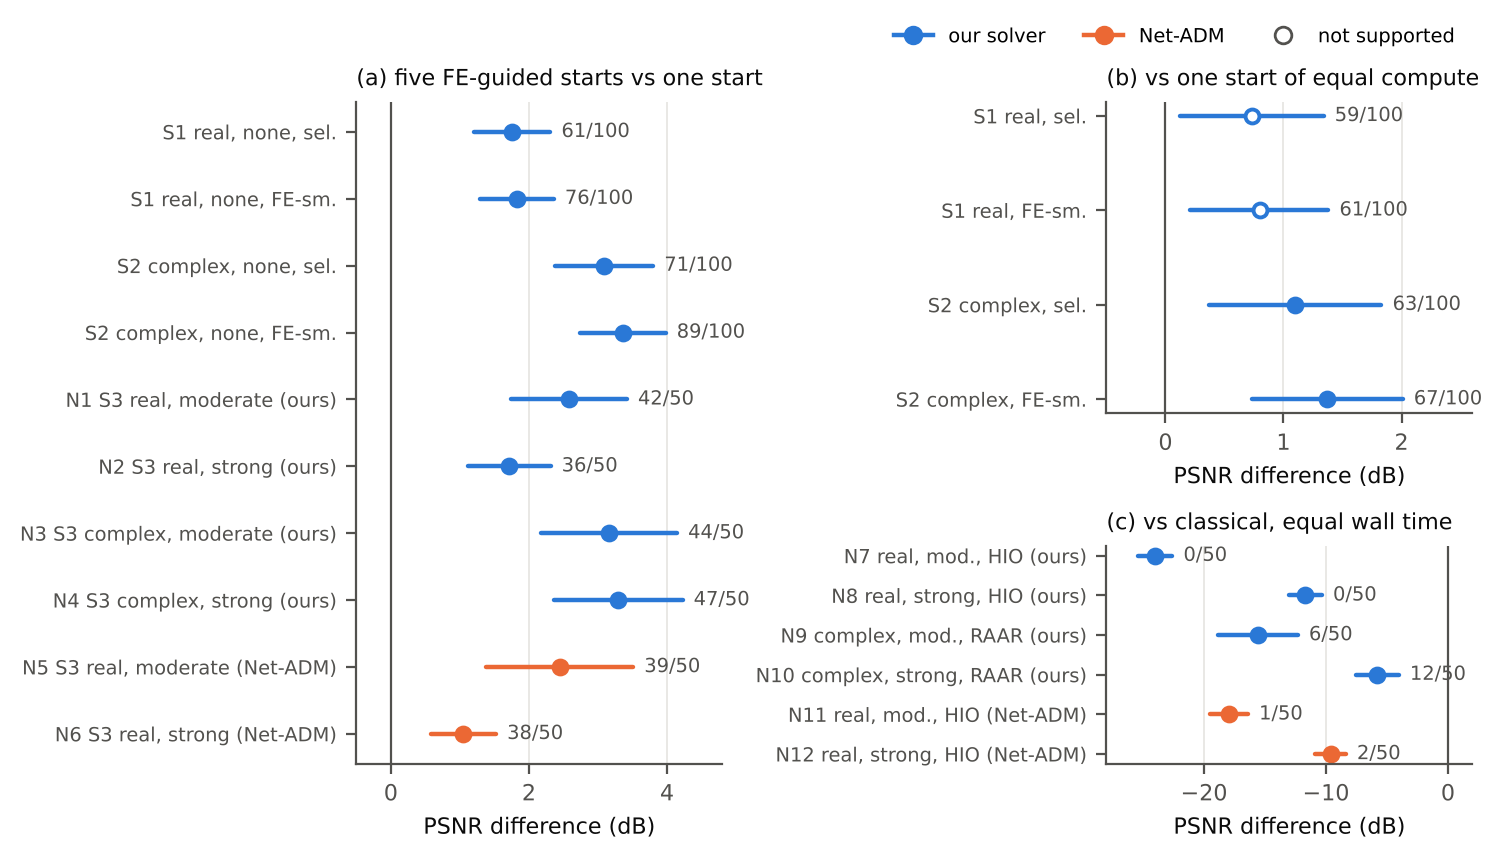
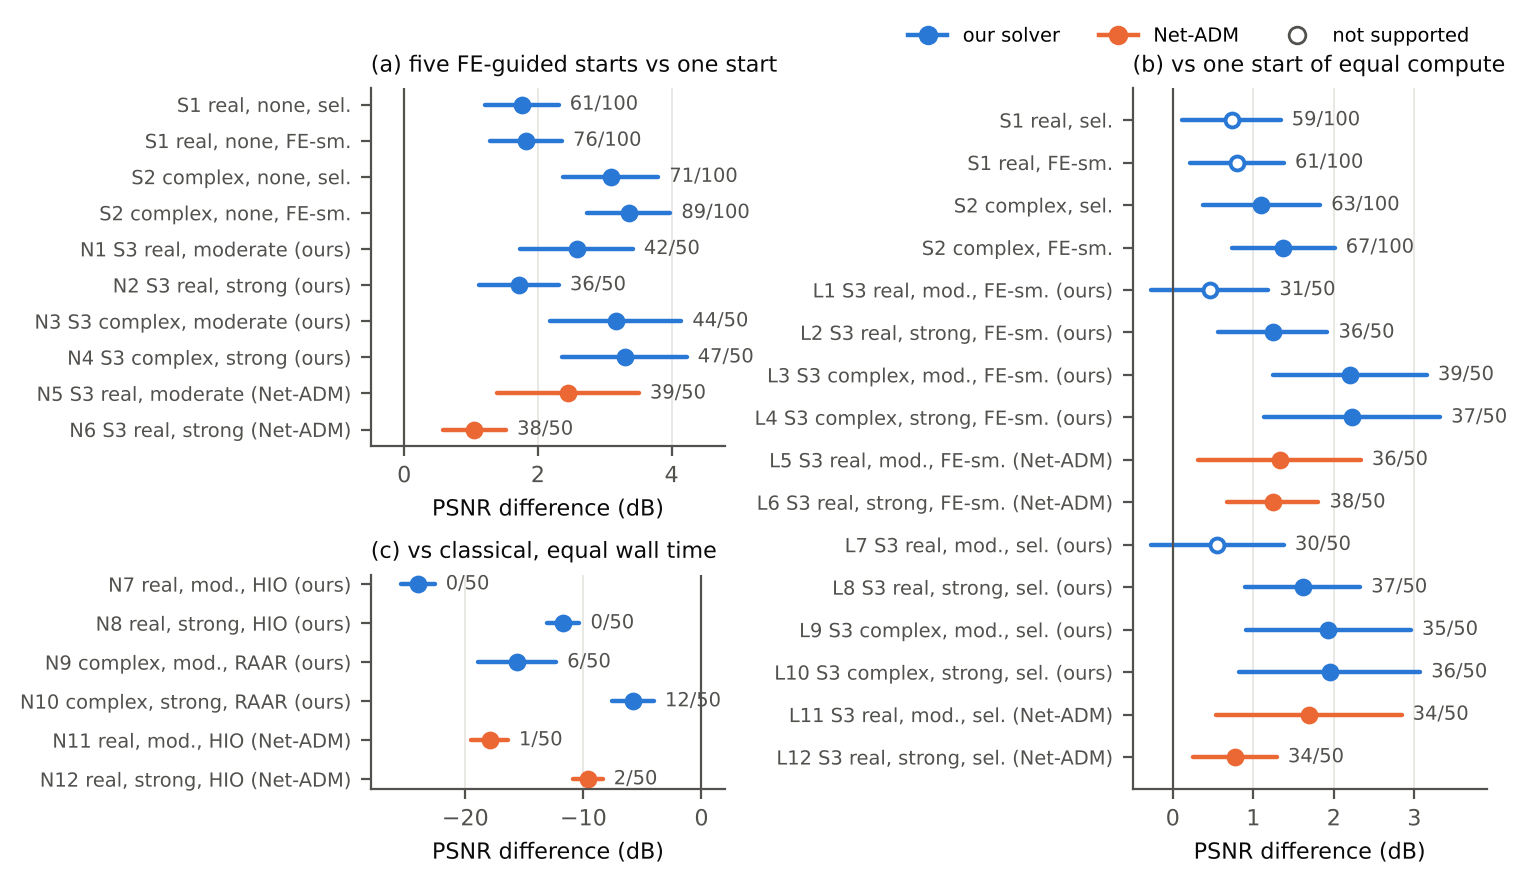
Figure 2b: add the compute-matched control of Study 3 (L1 to L12)

diff --git a/paper/make_tmlr_figures.py b/paper/make_tmlr_figures.py
@@ -69,6 +69,24 @@ def s3_rows(ids):
     return rows
 
 
+LONG_LABEL = {"real_ours_moderate": ("real, mod.", "ours"), "real_ours_strong": ("real, strong", "ours"),
+              "complex_ours_moderate": ("complex, mod.", "ours"), "complex_ours_strong": ("complex, strong", "ours"),
+              "real_netadm_moderate": ("real, mod.", "netadm"), "real_netadm_strong": ("real, strong", "netadm")}
+
+
+def long_rows():
+    """Compute-matched control of Study 3 (planned after Study 3, tag study3-long-plan-v1): L1 to L12."""
+    s = json.loads((REPO / "results/study3_long/report/summary.json").read_text())
+    rows = []
+    for x in s["tests"]:
+        lab, solver = LONG_LABEL[x["run"]]
+        rule = "FE-sm." if x["comparison"].startswith("FE-softmax") else "sel."
+        name = "Net-ADM" if solver == "netadm" else "ours"
+        rows.append((f"{x['id']} S3 {lab}, {rule} ({name})", x["mean"], tuple(x["ci"]),
+                     f"{x['first_better']}/{x['n']}", x["decision"] != "no claim", solver))
+    return rows
+
+
 def forest_panel(ax, rows, title, xlim=None):
     y = np.arange(len(rows))[::-1]
     for yi, (lab, m, ci, b, sup, solver) in zip(y, rows):
@@ -90,18 +108,19 @@ def forest_panel(ax, rows, title, xlim=None):
 def fig_forest():
     rows_a = VS_K1 + s3_rows(["N1", "N2", "N3", "N4", "N5", "N6"])
     rows_c = s3_rows(["N7", "N8", "N9", "N10", "N11", "N12"])
-    fig = plt.figure(figsize=(7.2, 4.3))
-    gs = fig.add_gridspec(2, 2, height_ratios=[10, 7], width_ratios=[1, 1], hspace=0.5, wspace=1.05)
-    ax_a = fig.add_subplot(gs[:, 0])
-    ax_b = fig.add_subplot(gs[0, 1])
-    ax_c = fig.add_subplot(gs[1, 1])
+    rows_b = VS_LONG + long_rows()
+    fig = plt.figure(figsize=(7.2, 4.55))
+    gs = fig.add_gridspec(2, 2, height_ratios=[10, 6], width_ratios=[1, 1], hspace=0.45, wspace=1.15)
+    ax_a = fig.add_subplot(gs[0, 0])
+    ax_c = fig.add_subplot(gs[1, 0])
+    ax_b = fig.add_subplot(gs[:, 1])
     forest_panel(ax_a, rows_a, "(a) five FE-guided starts vs one start", (-0.5, 4.8))
-    forest_panel(ax_b, VS_LONG, "(b) vs one start of equal compute", (-0.5, 2.6))
+    forest_panel(ax_b, rows_b, "(b) vs one start of equal compute", (-0.5, 3.9))
     forest_panel(ax_c, rows_c, "(c) vs classical, equal wall time", (-28, 2))
     h = [plt.Line2D([], [], color=C_OURS, marker="o", lw=1.6, label="our solver"),
          plt.Line2D([], [], color=C_NETADM, marker="o", lw=1.6, label="Net-ADM"),
          plt.Line2D([], [], color=INK2, marker="o", mfc="white", lw=0, label="not supported")]
-    ax_b.legend(handles=h, fontsize=7, frameon=False, loc="lower right", bbox_to_anchor=(1.0, 1.12), ncol=3)
+    ax_b.legend(handles=h, fontsize=7, frameon=False, loc="lower right", bbox_to_anchor=(1.0, 1.035), ncol=3)
     fig.savefig(OUT / "fig_forest.pdf", bbox_inches="tight")
     fig.savefig(OUT / "fig_forest.png", dpi=200, bbox_inches="tight")
     plt.close(fig)
